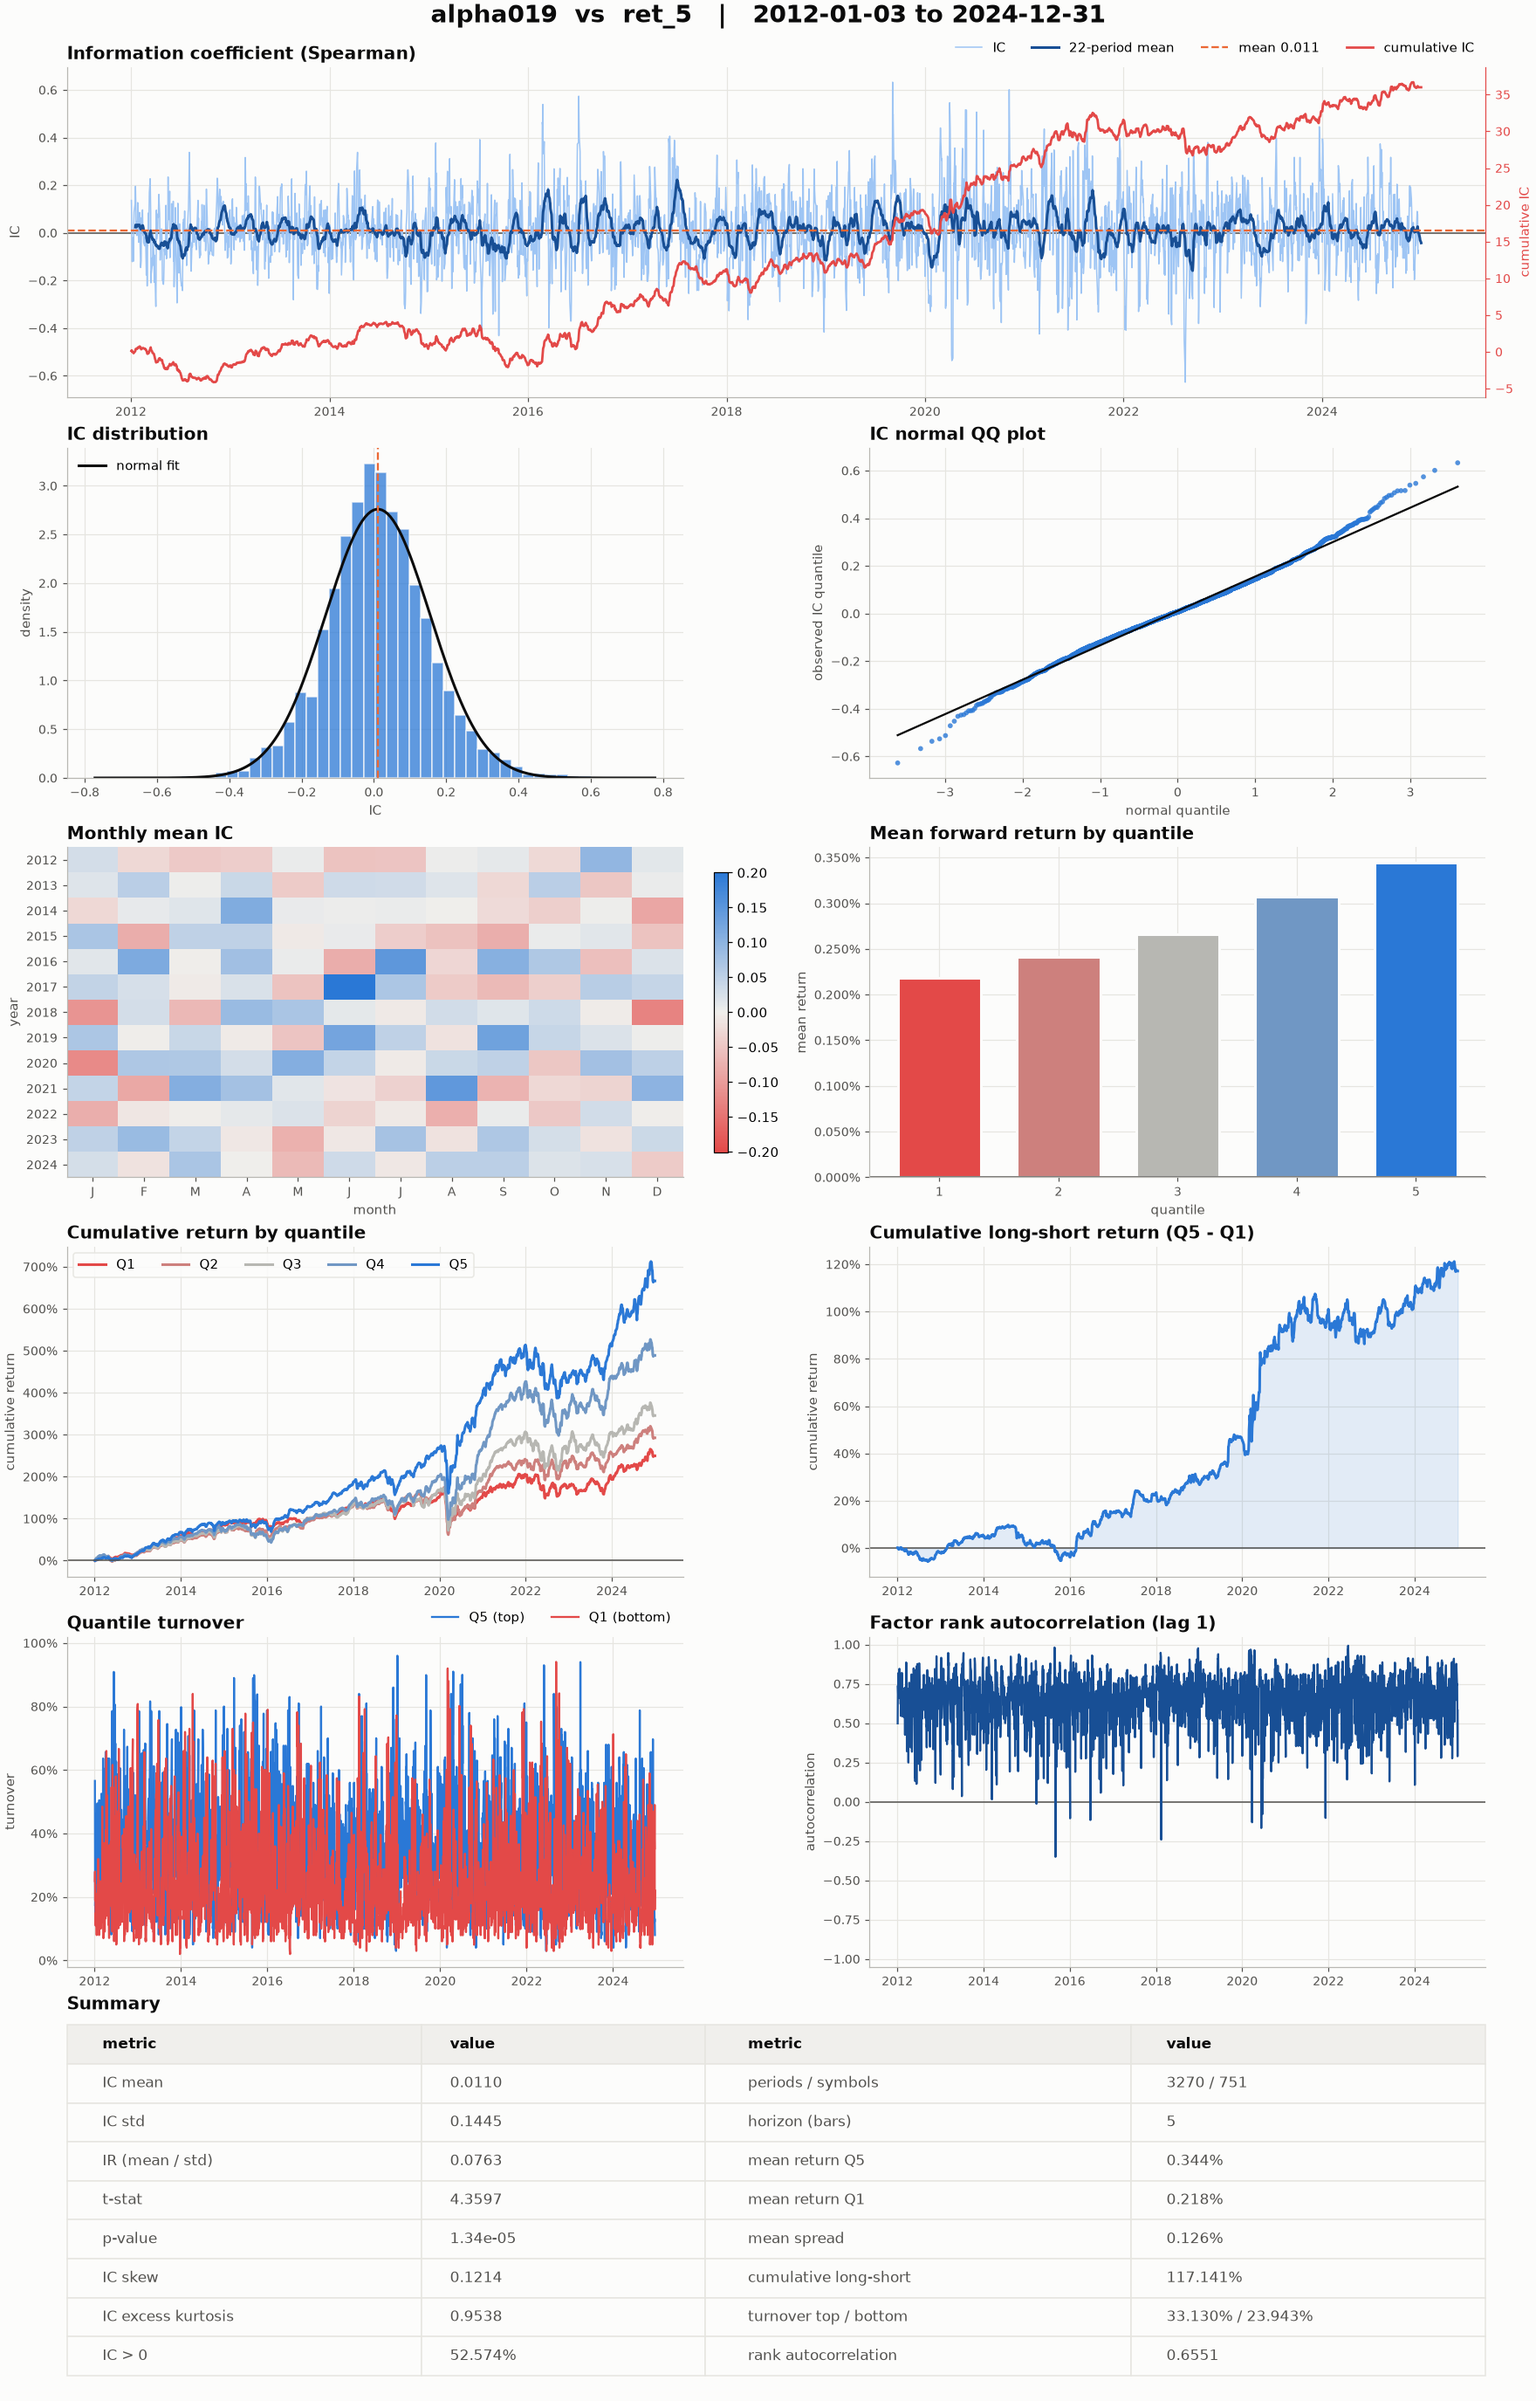
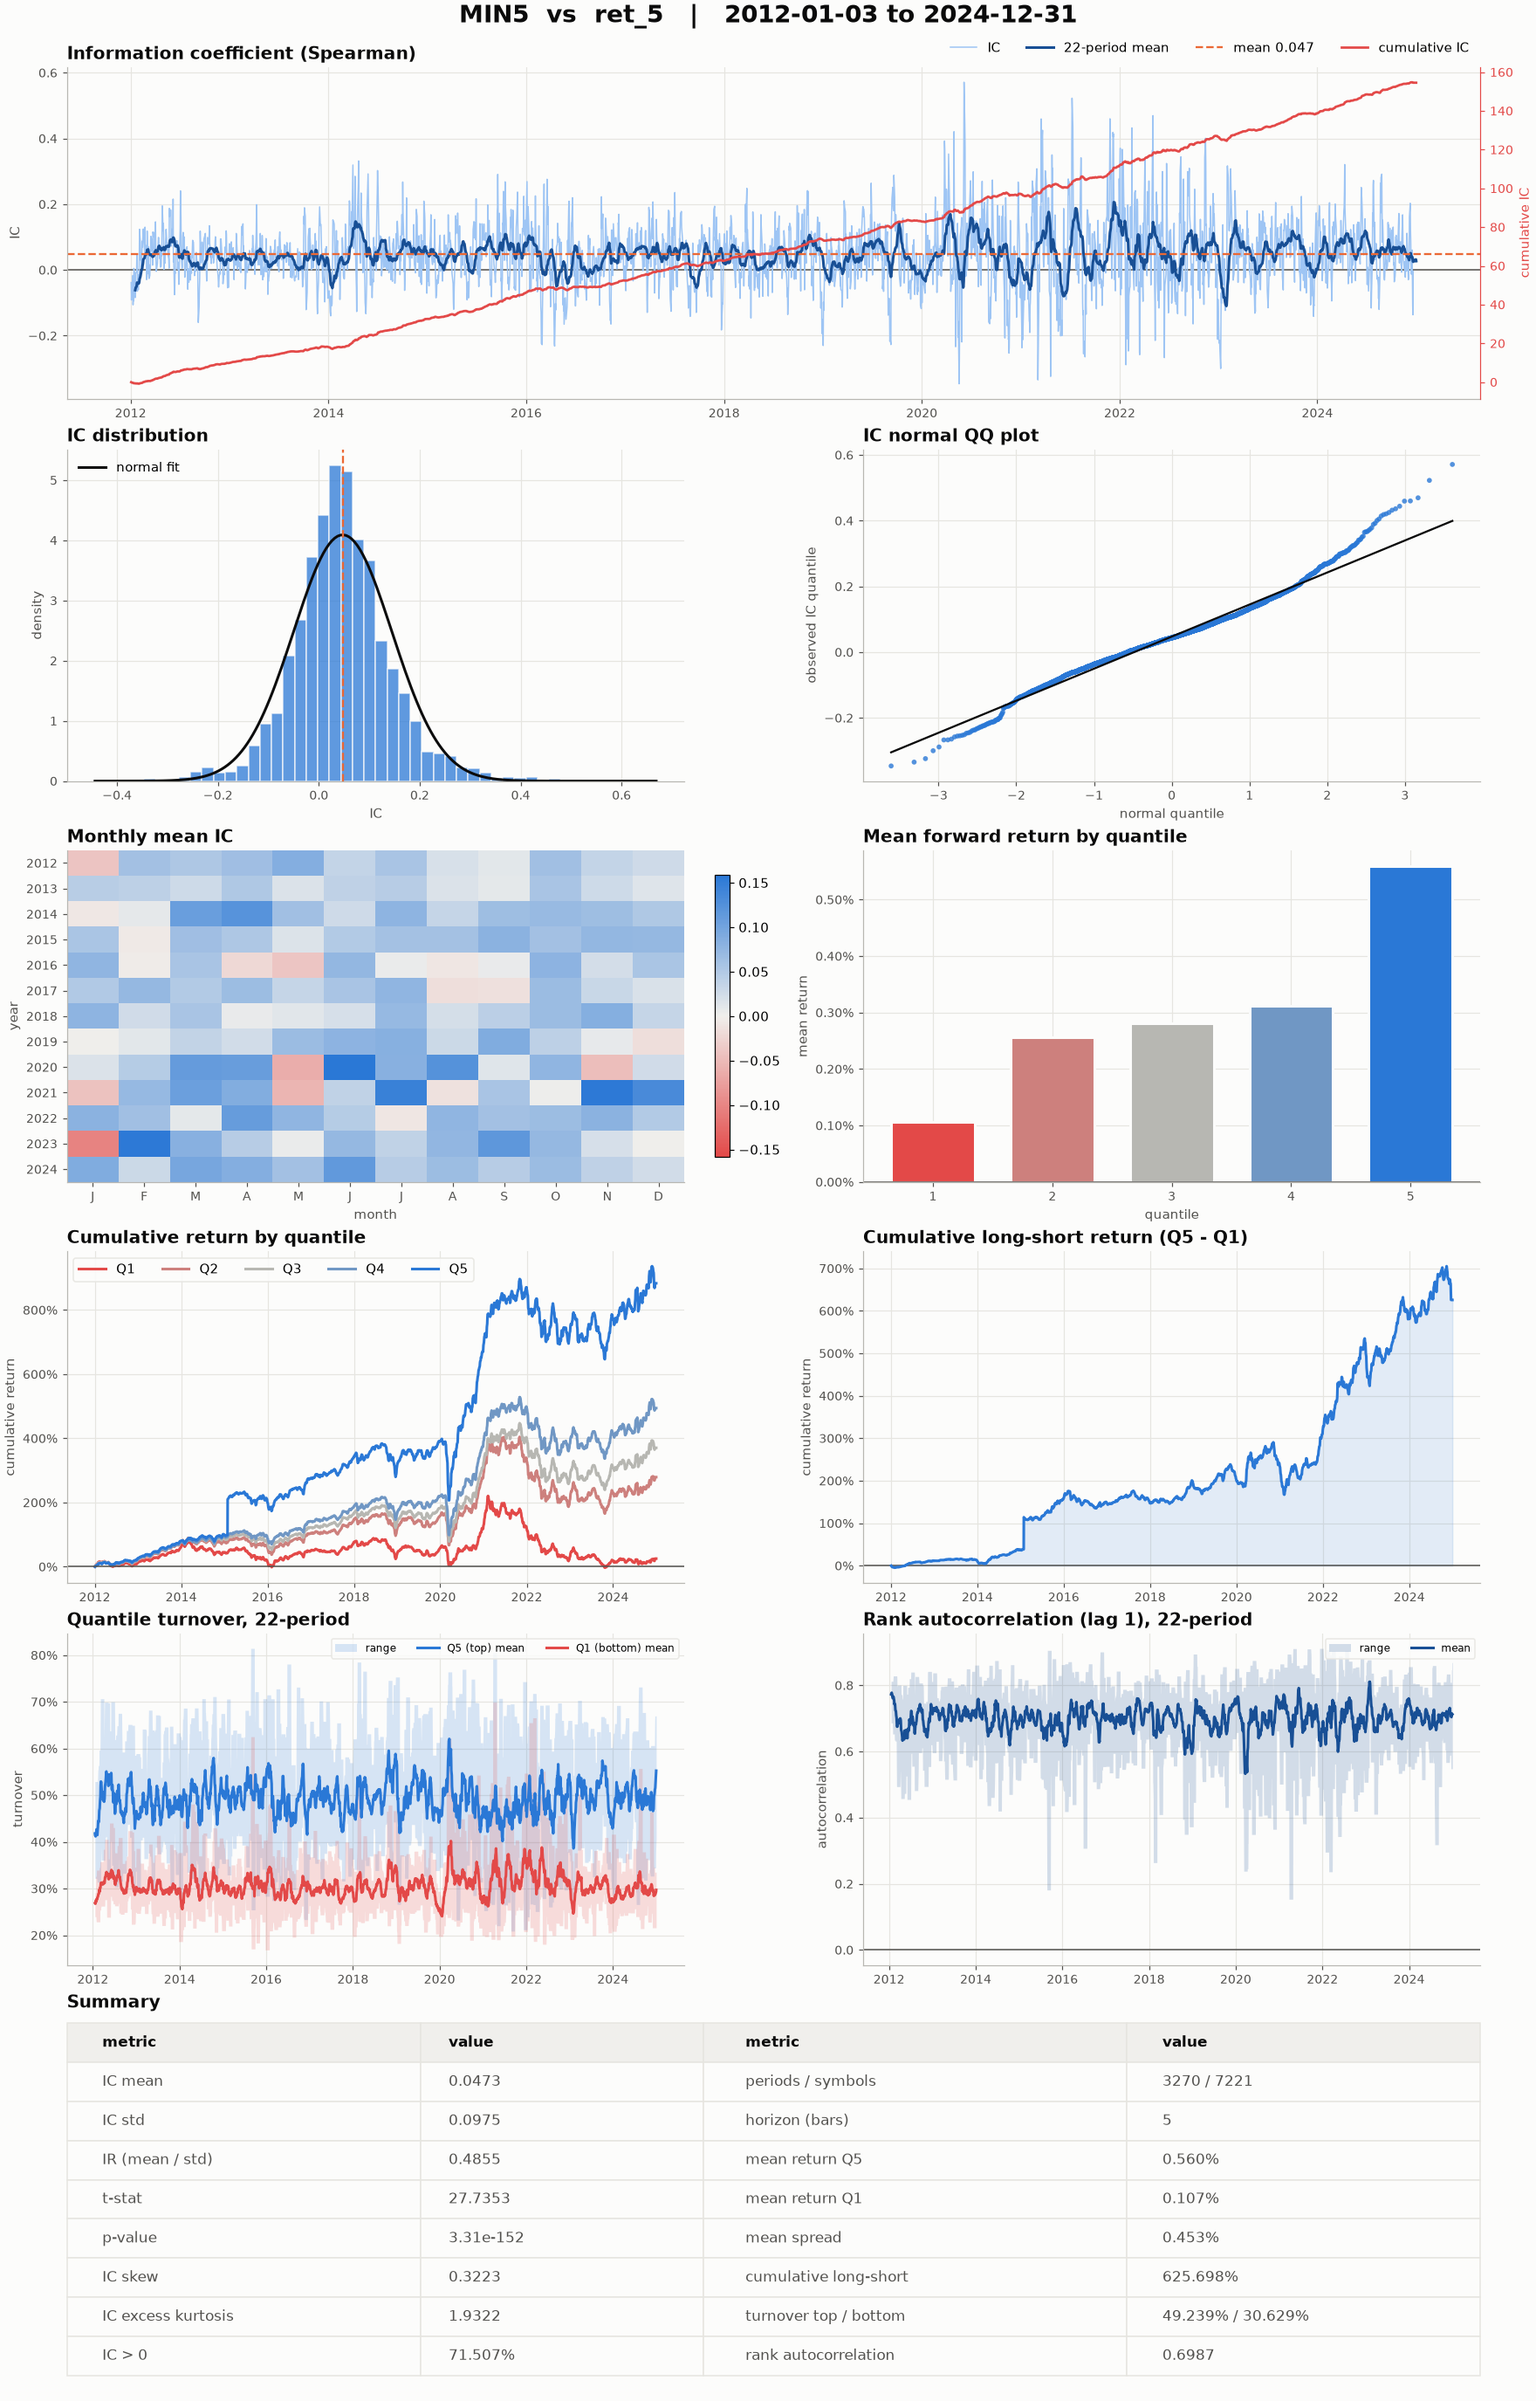
Show the full-market MIN5 factor report in the README
The factor figure is now MIN5 from Alpha158 on every CRSP common stock
(about 7,200 symbols, delisted ones included) from the market factor
analysis example, in place of alpha019 on the S&P 500. Both READMEs say
which universe each figure uses.

diff --git a/README.zh-CN.md b/README.zh-CN.md
@@ -76,18 +76,18 @@ uv run python examples/quickstart.py
 
 ## 输出长什么样
 
-下面两张图来自 [examples/wrds_us_equity/](examples/wrds_us_equity/README.zh-CN.md) 里的 S&P 500 示例，
-数据是 WRDS 的 CRSP 日频行情，股票池按历史成分（point-in-time）构建。
+下面两张图来自 [examples/wrds_us_equity/](examples/wrds_us_equity/README.zh-CN.md) 里的示例，
+数据是 WRDS 的 CRSP 日频行情：因子报告用的是美股全市场，回测用的是按历史成分（point-in-time）构建的 S&P 500。
 
 ### 因子报告
 
 `Factor.analyze()` 把每个因子和每个未来收益标签两两配对，为每一对画一张 alphalens 风格的图：
 信息系数（IC）的时间序列、分布、逐月均值，分位数收益、多空累计曲线、换手率和秩自相关，
-外加一张汇总表和整洁的 CSV。下图是 Alpha101 里的 `alpha019` 对 5 日开盘到开盘未来收益的报告，
-区间 2012 到 2024 年，由 `sp500_factor_analysis.py` 生成。
+外加一张汇总表和整洁的 CSV。下图是 Alpha158 里的 `MIN5`（5 日最低价相对收盘价）对 5 日开盘到开盘未来收益的报告，
+股票池是 CRSP 里的全部普通股，约 7200 只，含已退市的，区间 2012 到 2024 年，由 `market_factor_analysis.py` 生成。
 
 <p align="center">
-  <img src="docs/assets/factor_report.png" alt="alpha019 对 S&P 500 五日未来收益的因子报告" width="820">
+  <img src="docs/assets/factor_report.png" alt="MIN5 对美股全市场五日未来收益的因子报告" width="820">
 </p>
 
 ### 回测报告

diff --git a/README.md b/README.md
@@ -141,20 +141,22 @@ step.
 
 ## What the output looks like
 
-The two figures below come from the S&P 500 examples in
-[examples/wrds_us_equity/](examples/wrds_us_equity/README.md), run on point-in-time CRSP daily
-bars from WRDS.
+The two figures below come from the examples in
+[examples/wrds_us_equity/](examples/wrds_us_equity/README.md), run on CRSP daily bars from
+WRDS: the factor report on the full US market, the backtest on the point-in-time S&P 500.
 
 ### Factor report
 
 `Factor.analyze()` pairs every factor with every forward-return label and writes one
 alphalens-style figure per pair: the information coefficient (IC) over time, its distribution,
 monthly mean IC, returns by quantile, the long-short curve, turnover and rank autocorrelation,
-plus a summary table and tidy CSVs. This is `alpha019` from the Alpha101 set against the 5-day
-open-to-open forward return, 2012 to 2024, from `sp500_factor_analysis.py`.
+plus a summary table and tidy CSVs. This is `MIN5` from the Alpha158 set, the 5-day low
+relative to the close, against the 5-day open-to-open forward return on every common stock
+in CRSP, about 7,200 symbols including the delisted ones, 2012 to 2024, from
+`market_factor_analysis.py`.
 
 <p align="center">
-  <img src="docs/assets/factor_report.png" alt="Factor report for alpha019 against the 5-day forward return on the S&P 500" width="820">
+  <img src="docs/assets/factor_report.png" alt="Factor report for MIN5 against the 5-day forward return on the full US market" width="820">
 </p>
 
 ### Backtest report
